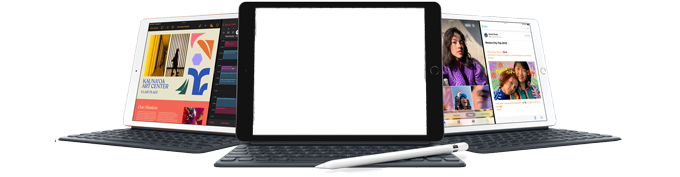
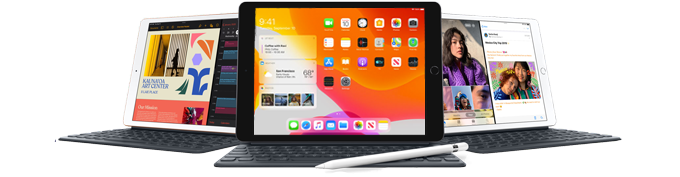
added ipad area + gif + updated img

Changed region(s): [[0.3706, 0.0282, 0.6485, 0.791]]

diff --git a/index.html b/index.html
@@ -383,16 +383,16 @@
                                         </tr>
                                         <tr>
                                             <td style="padding-top: 5px; padding-bottom:0px">
-                                                <table cellpadding="0" cellspacing="0" border="0" height="280" width="100%" id="watchImgContainer">
+                                                <table cellpadding="0" cellspacing="0" border="0" height="177" width="100%" id="watchImgContainer">
                                                     <tr>
                                                         <td background="img4-ipad.png" bgcolor="#ffffff" valign="top" style="background-position: center;" >
                                                             <!--[if gte mso 9]>
-                                                            <v:rect xmlns:v="urn:schemas-microsoft-com:vml" fill="true" stroke="false" style="mso-width-percent:1000;height:280px;">
-                                                              <v:fill type="tile" src="img4-ipda.png" color="#ffffff" />
+                                                            <v:rect xmlns:v="urn:schemas-microsoft-com:vml" fill="true" stroke="false" style="mso-width-percent:1000;height:177px;">
+                                                              <v:fill type="tile" src="img4-ipad.png" color="#ffffff" />
                                                               <v:textbox inset="0,0,0,0">
                                                             <![endif]-->
-                                                            <div>
-                                                                <img src="/vid4-ipad.mp4" alt="">
+                                                            <div align="center">
+                                                                <img src="vid4-ipad.gif" style="min-width: 175px; max-width: 27.75%; padding-top: 8px;">
                                                             </div>
                                                             <!--[if gte mso 9]>
                                                               </v:textbox>
